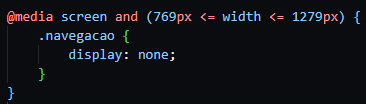
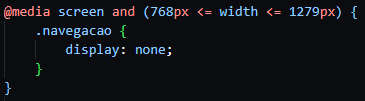
fix: corrigir erros ortográficos e de texto no artigo media queries

diff --git a/articles/media-queries.html b/articles/media-queries.html
@@ -54,22 +54,28 @@
             <p class="conteudo__texto">A estrutura de uma media query é sempre iniciada pela regra <code>@media</code>. Logo após, os seguintes elementos completam a sintaxe:</p>
 
             <ul class="conteudo__texto">
-                <li><span>media type:</span> é o tipo de mídia, que é opcional e pode assumir os valores <code>all</code>, que serve para todos os tipos de mídia e é implícito caso não se indique um media type, <code>print</code>, que serve para visão de documentos ou material paginado visualizados em modo de impressão, ou <code>screen</code>, que representa telas de qualquer dispositivo. Outros media types existiam em versões anteriores do media queries, mas foram depreciadas no Media Queries 4.</li>
+                <li><span>media type:</span> é o tipo de mídia, que é opcional e pode assumir os valores <code>all</code>, que serve para todos os tipos de mídia e é implícito caso não se indique um media type, <code>print</code>, que serve para visão de documentos ou material paginado visualizados em modo de impressão, ou <code>screen</code>, que representa telas de qualquer dispositivo. Outros media types existiam em versões anteriores do media queries, mas foram depreciadas no Media Queries 4, que é a versão mais atual.</li>
+                
                 <li><span>media features:</span> são as condições as quais o dispositivo deve obedecer para que o bloco de código CSS seja aplicado. As opções de media features são muitas, mas as mais utilizadas no design responsivo são <code>min-width</code>, <code>max-width</code>, <code>orientation</code> e <code>aspect-ratio</code>.</li>
-                <li><span>código CSS:</span> incluso dentro de chaves, fica o código CSS que será aplicado caso a media feature, ou o conjunto de media features, retorne verdadeiro. Este código é sempre carregado, porém apenas aplicado mediante a condição descrita anteriormente.</li>
+                
+                <li><span>código CSS:</span> incluso dentro de chaves, fica o código CSS que será aplicado caso a media query retorne verdadeira. Este código é sempre carregado, porém apenas aplicado mediante a condição descrita anteriormente.</li>
             </ul>
 
             <p class="conteudo__texto">Para um conjunto de media features ou regras mais específicas, é possível utilizar os seguintes operadores lógicos na construção das condições:</p>
 
             <ul class="conteudo__texto">
                 <li><span>and:</span> operador lógico de adição, une um media type definido às media features ou combina múltiplas media features como em <code>@media screen and (min-width: 768px) and (max-width: 1279px)</code>. Para que o código CSS seja aplicado, todas as condições conectadas por <code>and</code> devem ser verdadeiras.</li>
-                <li><span>not:</span> operador de negação, pode negar tanto uma media type, uma media feature ou toda a media query. Utilizando o operador not, expressões que retornariam falso, retornam verdadeiro. Com seu uso, a inclusão de um media type se torna obrigatório. </li>
-                <li><span>only:</span> aplica o estilo apenas se todas as condições da query são atendidas. Em browsers antigos, sem a palavra reservada <code>only</code>, caso a primeira parte da media query fosse verdadeira, o estilo já era aplicado sem considerar outras media features que poderiam ser falsas.</li>
+                
+                <li><span>not:</span> operador de negação, pode negar tanto uma media type, uma media feature ou toda a media query. Utilizando o operador not, expressões que retornariam falso, retornam verdadeiro. Com seu uso, a inclusão de um media type se torna obrigatória.</li>
+                
+                <li><span>only:</span> aplica o estilo apenas se todas as condições da media query forem atendidas. Em browsers antigos, sem a palavra reservada <code>only</code>, caso a primeira parte da media query fosse verdadeira, o estilo já era aplicado sem considerar outras media features que poderiam ser falsas.</li>
+                
                 <li><span>, (vírugla):</span> este operador é utilizado para converter várias condicionais em media queries em uma só de forma que, se pelo menos uma das condições retornar verdadeiro, o bloco de código será aplicado.</li>
+                
                 <li><span>or:</span> adicionado na versão mais recente do media queries, é uma nova maneira de converter várias condicionais em uma só. Equivalente ao operador <code>,</code> (vírgula).</li>
             </ul>
 
-            <p class="conteudo__texto">Um recurso que foi adicionado na versão mais recente do media queries objetivando deixar o código mais enxuto é a sintaxe de range. Os operadores <code><</code>, <code>></code>, <code>=></code> e <code><=</code> podem ser utilizados em qualquer media feature nas quais ranges podem ser aplicados. Os códigos exibido em ambas as imagens a seguir possuem o mesmo resultado, porém o código com range é menos verboso.</p>
+            <p class="conteudo__texto">Um recurso que foi também adicionado na versão mais recente do media queries, objetivando deixar o código mais enxuto, é a sintaxe de range. Os operadores <code><</code>, <code>></code>, <code>=></code> e <code><=</code> podem ser utilizados em qualquer media feature nas quais ranges podem ser aplicados. Os códigos exibidos em ambas as imagens a seguir possuem o mesmo resultado, porém o código com range é menos verboso.</p>
 
             <div class="conteudo__figuras">
                 <figure>

diff --git a/articles/design-responsivo.html b/articles/design-responsivo.html
@@ -52,7 +52,9 @@
 
             <ul class="conteudo__texto">
                 <li><span>Grids fluidas:</span> grids fluidas geram sites em que não é necessária uma marcação para cada tamanho de tela, mas sim, o layout é adaptável a ponto de se adequar automaticamente ao dispositivo de onde se acessa o site. Atualmente, os modelos de flexbox e grid são os mais utilizados para atingir esse objetivo.</li>
+                
                 <li><span>Imagens fluidas:</span> esta técnica combina a definição de <code>max-width: 100%</code> para tags do tipo <code>img</code>, de modo que imagens maiores sempre serão reduzidas ao tamanho total da tela, com a utilização da tag <code>picture</code> e os atributos <code>srcset</code> e <code>size</code> da tag <code>img</code>. A utilização desse conjunto permite incluir várias resoluções de uma mesma imagem que se adequem a cada tamanho de tela, de forma que o usuário não precise baixar uma imagem muito maior do que o tamanho que será visualizado.</li>
+                
                 <li><span>Media queries:</span> este recurso do CSS permite que blocos de código de estilização sejam aplicados de acordo com regras especificadas. Desta forma, é possível, para cada tamanho de dispositivo, criar blocos de código que adequem o layout para aquele dispositivo em específico. Mais sobre este tema no artigo <a href="/articles/media-queries.html">Media Queries</a>.</li>
             </ul>
 

diff --git a/styles/style_responsive.css b/styles/style_responsive.css
@@ -13,11 +13,11 @@
 
 /* Tamanho de 1280px à 1919px é o tamanho original para o qual o site foi desenvolvido */
 
-@media screen and (769px <= width <= 1279px) {
+@media screen and (768px <= width <= 1279px) {
     .navegacao {
         display: none;
     }
-        
+     
     .navegacao--responsiva {
         display: block;
     }
